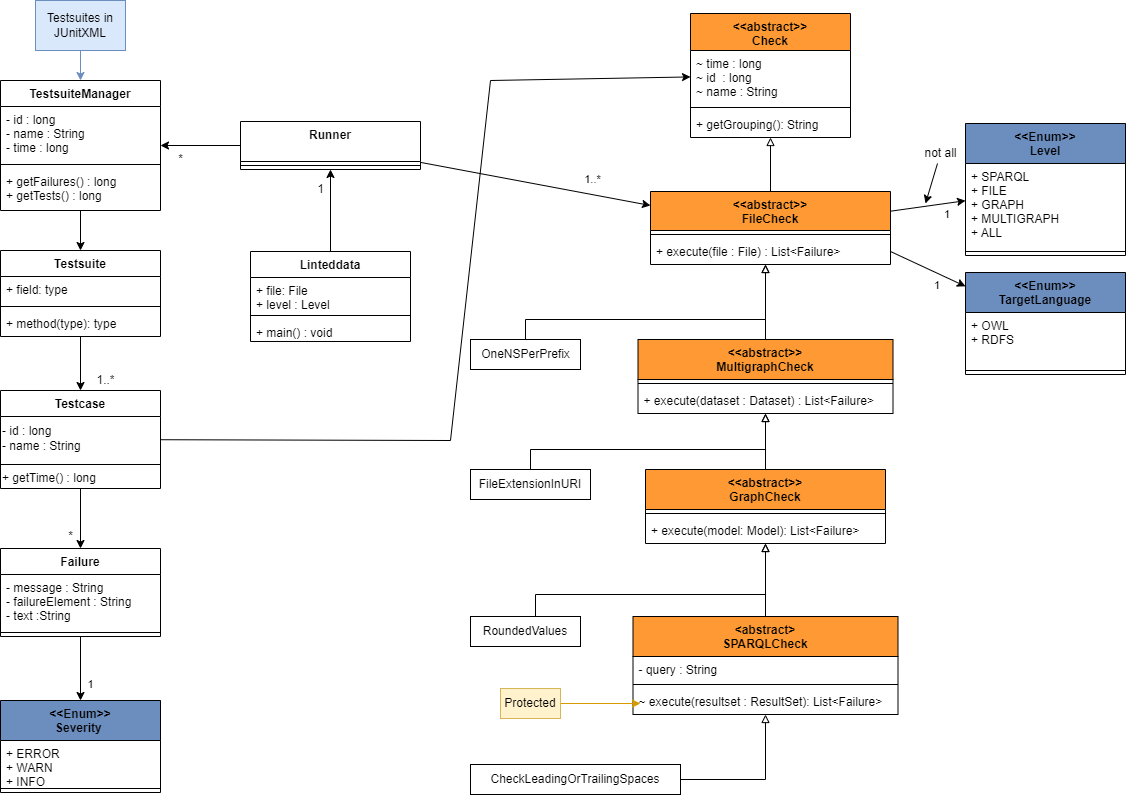
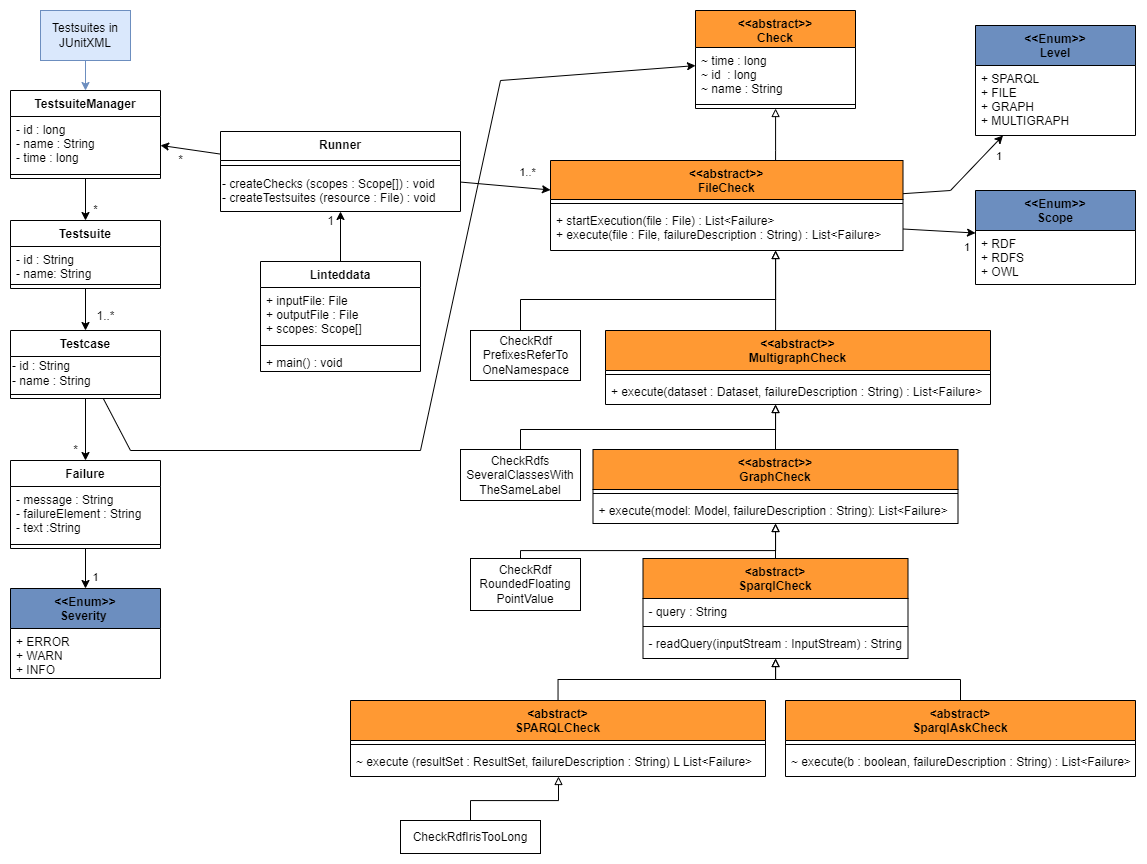
updated documentation on how to add new validators
updated class diagram

diff --git a/documentation/adding_new_validators.md b/documentation/adding_new_validators.md
@@ -24,21 +24,21 @@ The classes belong to three different packages:
 
 | Package         | Description     |
 |--------------|-----------|
-| *checks* | This package contains all the validators.     |
-| *JUnitXML*      | All classes in this package are used to build the structure of [JUnitXML](https://www.ibm.com/docs/en/developer-for-zos/14.1.0?topic=formats-junit-xml-format)  |
-| *Main* | The classes from this package are used to execute the tool. |
+| *linted_data* | The classes from this package are used to execute the tool. |
+| *linted_data/checks* | This package contains all the validators.     |
+| *linted_data/JUnitXML*      | All classes in this package are used to build the structure of [JUnitXML](https://www.ibm.com/docs/en/developer-for-zos/14.1.0?topic=formats-junit-xml-format)  |
 
 The different classes in the package `checks` are described in section 3.
 <!-- TODO keep track of section number -->
-In general all of these classes have a `execute` that must be implemented.
-Each of the abstract classes overwrites the `execute` of its superclass, except for `FileCheck` as the first check.
-`Check` is a superclass of `FileCheck` and used to capture the attributes of a check.
+In general all of these classes have a function called `execute` that must be implemented.
+Each of the abstract classes overwrites the `execute` of its superclass, except for `FileCheck` as the first level.
+`Check` is a superclass of `FileCheck` and used to capture the general attributes of a check.
 It can be used to extend the tool later with different types of checks.  
 
-Each of the `FileCheck`s has one level it applies to, this could also be modelled via the subclass relation, but with the enum `Level`, the user can pass as an argument what kind of validations he wants to execute.
-A new validator mustn't have the `Level` `ALL`, this value is only for the user input.
-Also each one has a `TargetLanguage`.
+Each of the `FileCheck`s has one level it applies to, this could also be modelled via the subclass relation.
+Also each one has a `Scope`.
 This attribute is used to assign the validator to the corresponding Testsuite in the result.
+It represents the modeling language of the semantic web which is needed to realise the checked concept. <!--TODO is concept a good word? -->
 
 The abstract subclasses of the different levels each implement the abstract `execute` method of its superclass.
 In these implementations the argument, that is not `failureDescription`, is further processed and along with the `failureDescription` passed to the new abstract method `execute`.  
@@ -54,6 +54,7 @@ The weakest value is `INFO` which is for non critical failures that don't affect
 
 The `main`-method is contained in `LintedData`.
 Within this class the command-line arguments are processed and a new instance of `Runner` is created.
+The checks are only executed, when the file can be parsed successfully, else the program stops.
 `Runner` executes the selected checks and stores the result to the destination file.
 When a new validator is added, it must be added to the method `Runner.createAllChecks`, there are no further changes needed.  
 
@@ -70,7 +71,7 @@ The aim of this section is it, to understand, when to implement which type of ch
 
 As seen in the class diagram in the previous section, the different types of validators are implemented as subclass from `Check`.
 
-A general rule is, that a validator should be implemented as subclass of the most specific level.
+A general rule is, that a validator should be implemented as subclass of the most specific check.
 It is always possible to realise a validator as a subclass of `FileCheck`.
 But this leads to code duplication that can be prevented.
 Also each level provides a method that only has the required arguments.
@@ -85,10 +86,12 @@ does this even make sense?-->
 All non abstract subclasses of this class need to process the file in its raw format.
 The failures detected in those classes can't be detected after parsing the file into a [Jena](https://jena.apache.org/) dataset.  
 
-One example for this type is the check if a prefix is defined multiple times.
-This can only occur in serialisation languages, that allow prefix definitions, such as RDF/XML, JSONLD and Turtle.
+### 3.1.1 `CheckRdfPrefixesReferToOneNamespace`
+
+One example for this type is the check if a prefix is defined multiple times, see `CheckRdfPrefixesReferToOneNamespace`.
+This can only occur in serialisation languages, that allow prefix definitions, for example Turtle.
 In Turtle and JSONLD it is possible to generate a valid document, where a prefix is defined multiple times.
-This error can't be detected after parsing the file because then only the last set prefix would be available.
+This error can't be detected after parsing the file because then only the last set prefix definition would be available.
 
 ## 3.2 `MultiGraphCheck`
 
@@ -98,32 +101,48 @@ At this level the file gets parsed into a `dataset`.
 A `dataset` gains access to the default graph, and if serialised in a language supporting multiple graphs within one document, also to all other named graphs.
 This level should be used, when it is necessary to access all contained models and combine the results from them.  
 
-An example for that level would be
-<!--TODO find & implement an example -->
+### 3.2.1 `CheckRdfsSeveralClassesWithTheSameLabel`
+
+The only example created at this stage is `CheckRdfsSeveralClassesWithTheSameLabel`.
+This check should be implemented as `MultiGraphSparqlCheck`, but due to time issues, this class doesn't exist yet.
+It is not possible to realise this validator at another level, because in the next level, each graph contained in the `dataset` is processed on its own.
+It is not possible to get all used labels from each model and check if they are also used for another concept.
 
 ## 3.3 `GraphCheck`
 
 A `MultiGraphCheck` allows the user to access all models at the same time, but the dataset does not allow direct access to the statements contained in the different models.
-<!--This section is horrible-->
-Therefore each model needs to be accessed before.
-To prevent code duplication, where each check needs to access all contained models, this level implements the abstract function from its superclass and call with each in the dataset contained model a function.
-The subclasses of `GraphCheck` then must implement this function, where they only have access to one model at the same time.  
-<!--When a problem affects only a single model from Jena, contained in the dataset, at the same time, then the corresponding validator should be realised as a `GraphCheck`.
-At this level, it is not possible to access any other model.
-The checks are performed on all models of a dataset, the default model as well as named models.
-If this is necessary, the validator should be a subclass of `MultiGraphCheck`.-->
+
+A `GraphCheck` gains access to only one model of a dataset at the same time, but therefore it is possible to access its contained statements.
+If it is necessary to combine results or statements from multiple graphs within a check, this must be implemented as a `MultiGraphCheck`.
+
+
+### 3.3.1 `CheckRdfRoundedFloatingPointValue`
+
 Whether a value can be exactly represented as a double or float is an example for a `GraphCheck`.
-<!--TODO missing part, or should this be moved to section 5 ?-->
+In the check `CheckRdfRoundedFloatingPointValue` each statement of a model is examined.
+In case that the object of a statement is a literal with the datatype `xsd:float` or `xsd:double`, it is checked if this value can be exactly represented in this datatype, or if its datatype should be `xsd:decimal`.
+The comparison of the `decimal` value and the `double` or `float` value can't be realised as SPARQL query.
+So this validator can't be realised as `SparqlCheck`.
 
-## 3.4 `SPARQLCheck`
+## 3.4 `SparqlCheck`
 
-Checks that can be formulated as a SPARQL query, are a subclass of `SPARQLCheck`.
-Although implementing a validator as a subclass of `SPARQLCheck` might not be the best efficient solution, it should be the superclass to choose.
-If the validator is implemented as SPARQL query, this query can be reused in other frameworks as well.
+Checks that can be formulated as a SPARQL query, are a subclass of `SparqlCheck`.
+Although implementing a validator as a subclass of `SparqlCheck` might not be the best efficient solution, it should be the superclass to choose.
+This enables the reuse of  the SPARQL query in other frameworks as well.
 
-This abstract class `SPARQLCheck` has an attribute in which the query is stored as String.
-Within the `execute`, that needs to be implemented, only the result of the query execution is present.
-The execution of the query itself is done in the superclass.  
+This abstract class `SparqlCheck` has an attribute in which the query is stored as String.
+`SparqlAskCheck` and `SparqlSelectCheck` are its two abstract subclasses used to model and execute the different types of request queries in SPARQL.
+
+`SparqlAskCheck` is used to model `ASK` queries.
+It defines an abstract method with a boolean parameter that needs to be processed.
+With `SparqlSelectCheck` `SELECT FROM WHERE` queries are modelled.
+The abstract `execute` function has one argument of the type  `ResultSet`.
+This contains the answer from the SPARQL query and can then be processed further.  
+
+In both cases, it is only possible to access the result of the query, not the queried model.
+
+### 3.4.1 `CheckRdfIrisTooLong`
+
 One example for this type of check is the validation, that literals don't start or end with a white space.
 This could also be realised as a `GraphCheck`, but can also be realised with a SPARQL query.
 <!--TODO more information, or move this to section 5?-->
